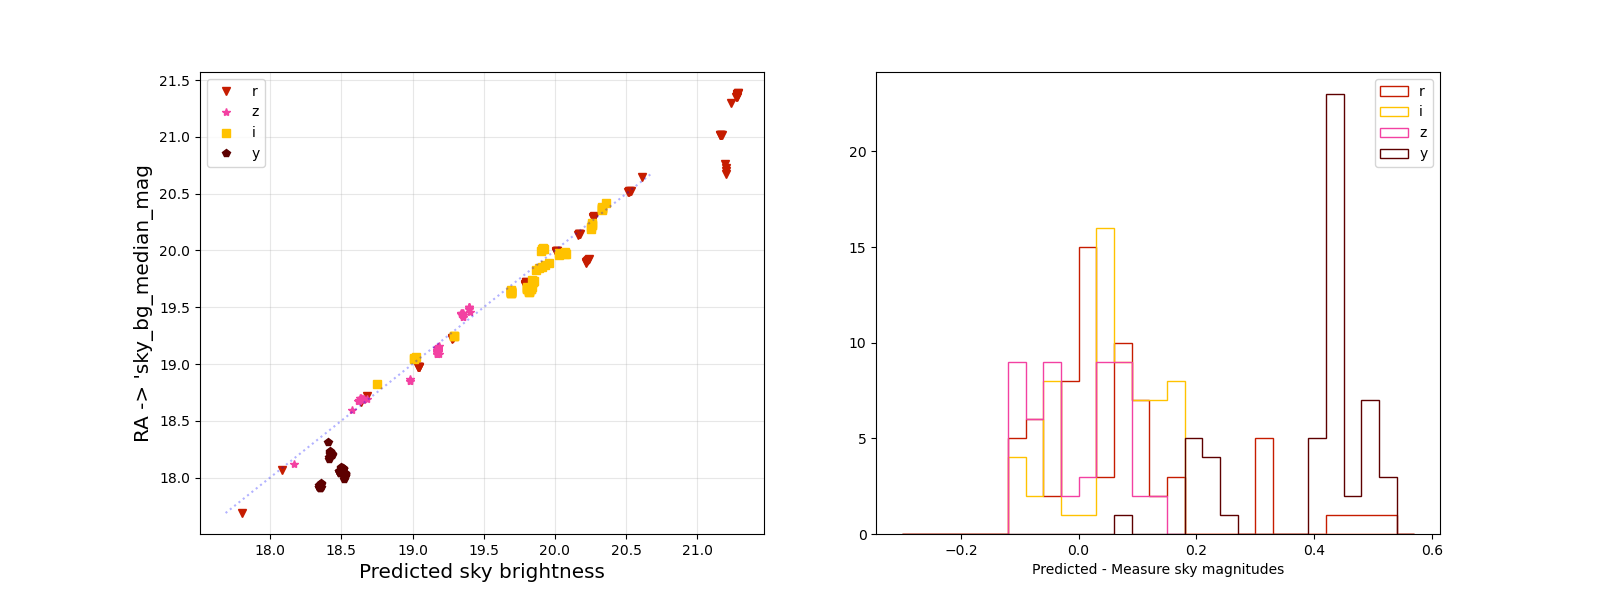
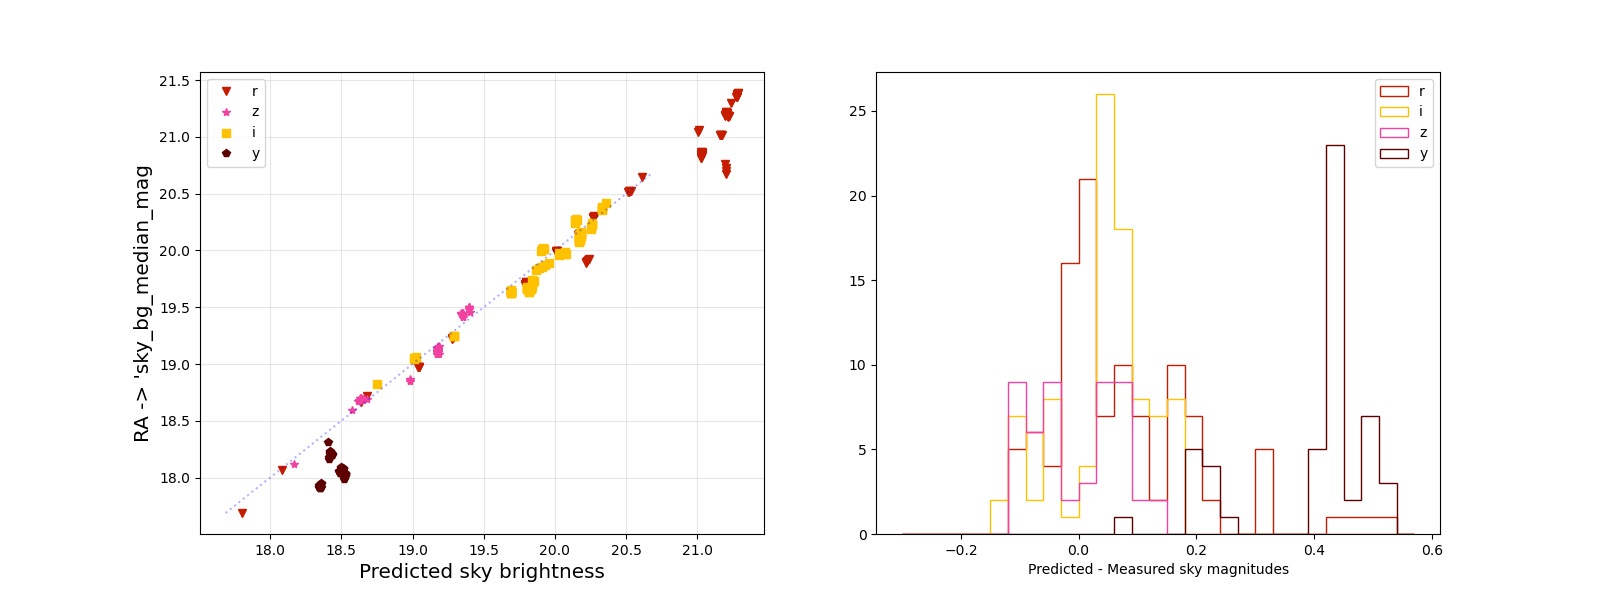
Fix legend on seeing plot; add data from 2024-11-21 ro 2024-11-24

diff --git a/survey_performance.tex b/survey_performance.tex
@@ -7,9 +7,10 @@ At this point in commissioning, the operations of the observatory are focused on
 
 We can however begin to evaluate how our models may be validated or not by the currently acquired observations. We focus on the observations acquired for the science program, BLOCK-320.
 
-First, clearly bad visits (where stars were clearly trailed in the images, as visible in rubintv) were removed from the set of science visits. Two additional visits had zeropoints which were clearly outliers compared to expected values (more than 1 magnitude away) are were associated with messages in the logs indicating hexapod issues. These visits were also removed. This left 235 "good" science visits between 2024-11-14 to 2024-11-21. 
+First, clearly bad visits (where stars were clearly trailed in the images, as visible in rubintv) were removed from the set of science visits. Two additional visits had zeropoints which were clearly outliers compared to expected values (more than 1 magnitude away) are were associated with messages in the logs indicating hexapod issues. These visits were also removed. This left 320 "good" science visits out of 335 between dayObs 2024-11-14 to 2024-11-24. 
 
 The throughput curves available in `syseng\_throughputs`, the repository that tracks current system engineering summaries of full-focal-plane throughputs, can be used to predict zeropoints for average ITL CCDs. See \url{https://github.com/lsst-pst/syseng\_throughputs/blob/main/notebooks/InterpolateZeropoint.ipynb}, where a simple interpolation function for filter and airmass is defined for the current throughputs (v1.9). The returned zeropoint includes the exposure time, as zeropoints in DM pipelines outputs are for a given exposure with the given exposure time (they are not 1-second zeropoints). A comparison of these predicted zeropoints to the reported median visit zeropoints in the ConsDB (the column `cdb\_lsstcomcam.visit1\_quicklook.zero\_point\_median`) is shown in Figure~\ref{fig:zeropoints}. The mean of these zeropoint variations averages 0.13 magnitudes across all bands, being slightly smaller in r (0.09 mag) and slightly larger in y band (0.18); the RMS scatter in these measurements is < 0.02 magnitudes. 
+
 
 \begin{figure}
     \centering
@@ -17,6 +18,7 @@ The throughput curves available in `syseng\_throughputs`, the repository that tr
     \caption{Predicted zeropoints from syseng\_throughputs (accounting for airmass) compared to measured zeropoints from `cdb\_lsst.comcam.visits1\_quicklook`.}
     \label{fig:zeropoints}
     \end{figure}
+    
     
     
 Likewise, the survey simulations use a skybackground model as part of the model to determine five sigma visit depths and to choose observation pointings. The outputs available in the ConsDb include a `sky\_bg\_median` value, which is in counts per pixel. Together with an estimate of the platescale (0.2"/pixel) and a zeropoint, we can convert this into magnitudes per square arcsecond, to compare to the predicted values from the rubin\_scheduler skybrightness model. The results are shown in Figure~\ref{fig:sky}.  The values are also remarkably consistent, with a scatter of less than 0.15 magnitudes in all bands, and offsets within 0.1 magnitude except in y band, where the measured sky is 0.5 magnitudes brighter than expected. This is  within our expected errors in the skybackground model, particularly in y band where the sky is quite variable and harder to model. 
